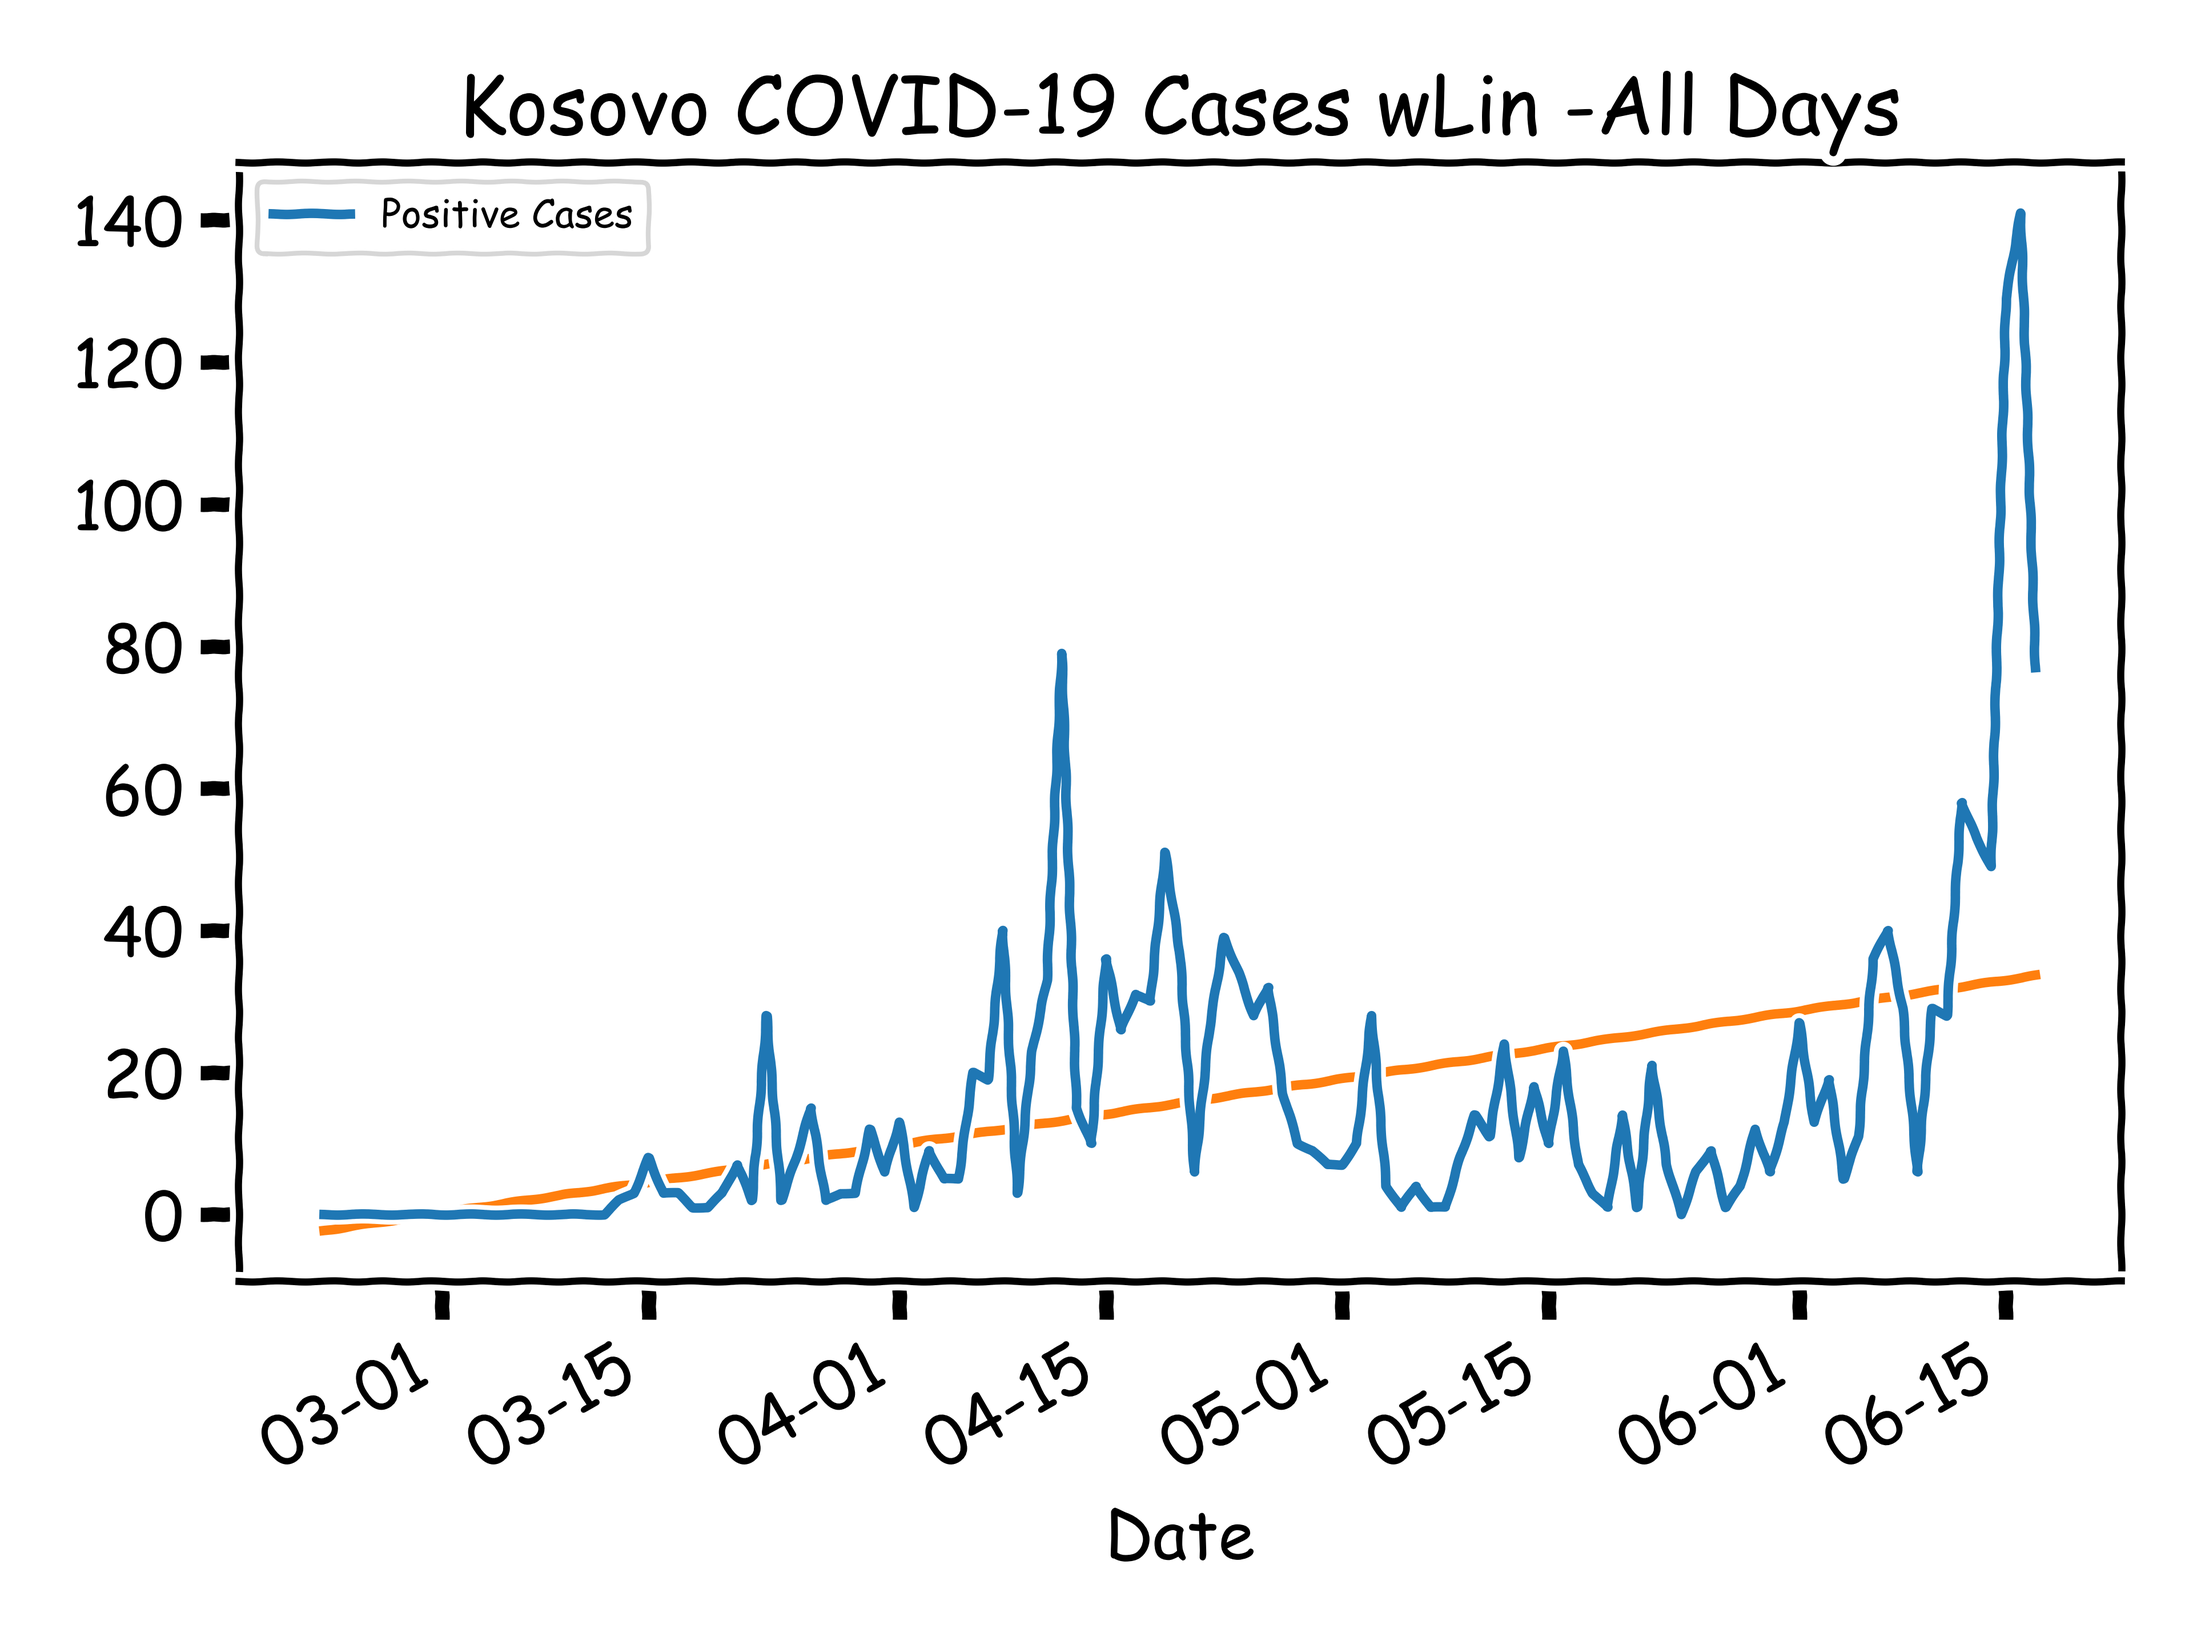
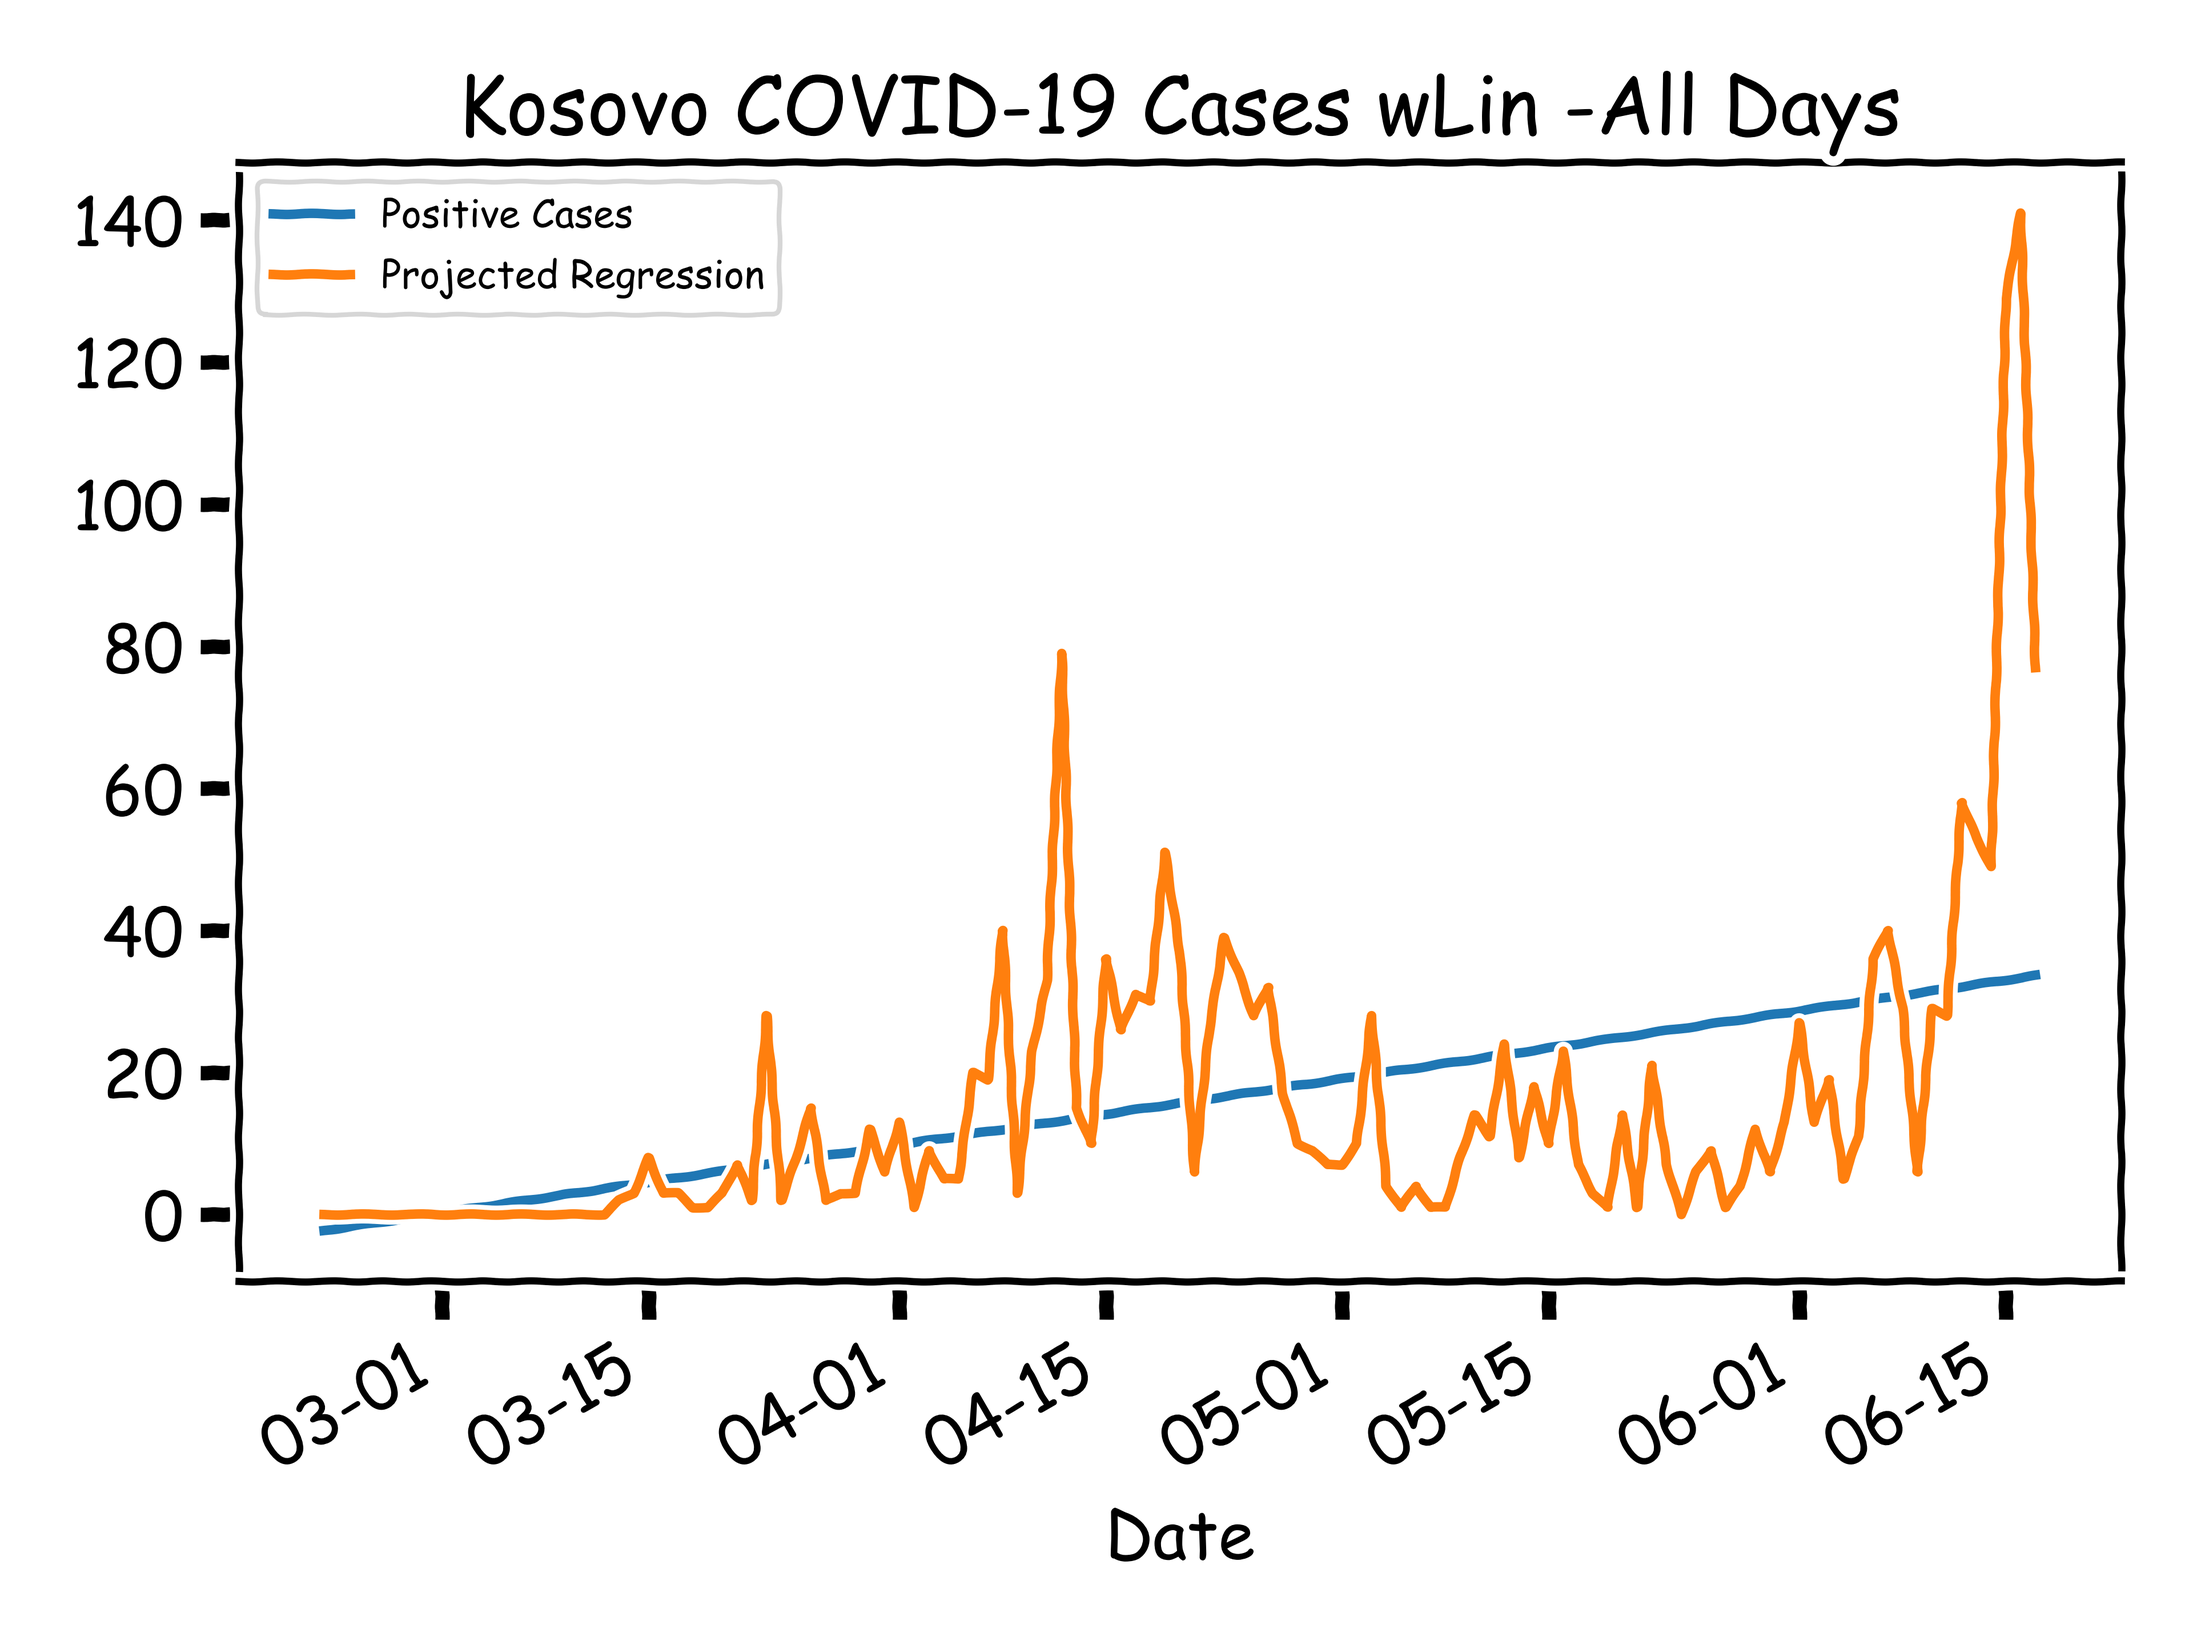
Daily push for 20200619

Changed region(s): [[0.125, 0.125, 0.9375, 0.75], [0.125, 0.125, 0.3438, 0.1875]]

diff --git a/LinTest.py b/LinTest.py
@@ -9,19 +9,26 @@ tickFormatter = mdates.DateFormatter('%m-%d')
 COVID_Raw = pandas.read_csv("./Data/COVID_Raw.csv")
 COVID_Raw['Date'] = pandas.to_datetime(COVID_Raw['Date'])
 COVID_Raw = COVID_Raw.set_index('Date')
+COVID_Raw[['Tested_Cum']] = COVID_Raw[['Tested_Raw']].cumsum()
+COVID_Raw[['Positive_Cum']] = COVID_Raw[['Positive_Raw']].cumsum()
+COVID_Raw[['Recovered_Cum']] = COVID_Raw[['Recovered_Raw']].cumsum()
+COVID_Raw[['Died_Cum']] = COVID_Raw[['Died_Raw']].cumsum()
+COVID_Raw['Active_Infections'] = (COVID_Raw['Positive_Cum'] - (COVID_Raw['Recovered_Cum'] + COVID_Raw['Died_Cum']))
 
-Y = COVID_Raw.Positive_Raw.values.reshape(-1, 1)
-X = COVID_Raw.index.map(datetime.datetime.toordinal).values.reshape(-1, 1)
-linear_regressor = LinearRegression()  # create object for the class
-linear_regressor.fit(X, Y)  # perform linear regression
-Y_pred = linear_regressor.predict(X)  # make predictions
+with plt.xkcd():
 
-CPDelta_df = COVID_Raw[['Positive_Raw']]
-CPDelta_df['LinReg'] = Y_pred
-deltaFig = CPDelta_df.plot(title='Kosovo COVID-19 Cases wLin -All Days', label='Positive Cases', zorder=10)
-deltaFig.xaxis.set_major_formatter(tickFormatter)
-deltaFig.legend(fontsize='xx-small')
-deltaFig.figure.tight_layout()
-# plt.plot(X, Y_pred, label='Projected Regression')
+    deltaFig = COVID_Raw.Active_Infections.plot(title='Kosovo COVID-19 Active Infections wLin -All Days', label='Positive Cases', zorder=10)
+    Y = COVID_Raw.Active_Infections.values.reshape(-1, 1)
+    X = COVID_Raw.index.map(datetime.datetime.toordinal).values.reshape(-1, 1)
+    linear_regressor = LinearRegression()  # create object for the class
+    linear_regressor.fit(X, Y)  # perform linear regression
+    Y_pred = linear_regressor.predict(X)  # make predictions
+    CPDelta_df = COVID_Raw[['Active_Infections']]
+    CPDelta_df.insert(0, 'LinReg', Y_pred, True)
+    CPDelta_df.insert(0, 'Mean_Active', COVID_Raw['Active_Infections'].mean(), True)
+    deltaFig = CPDelta_df.plot(title='Kosovo COVID-19 Active Infections -All Days', zorder=10)
+    deltaFig.xaxis.set_major_formatter(tickFormatter)
+    deltaFig.legend(['Mean Active Infections', 'Projected Regression', 'Active Infections'], fontsize='small')
+    deltaFig.figure.tight_layout()
 
-plt.show()
+    plt.savefig('../../../Desktop/Kosovo COVID-19 Active wLinRegandMean -All Days Plot.png', dpi=600)

diff --git a/covid.py b/covid.py
@@ -73,11 +73,28 @@ with plt.xkcd():
     linear_regressor = LinearRegression()  # create object for the class
     linear_regressor.fit(X, Y)  # perform linear regression
     Y_pred = linear_regressor.predict(X)  # make predictions
+    CPDelta_df = COVID_Raw[['Positive_Raw']]
+    CPDelta_df.insert(0, 'LinReg', Y_pred, True)
+    deltaFig = CPDelta_df.plot(title='Kosovo COVID-19 Cases wLin -All Days', zorder=10)
     deltaFig.xaxis.set_major_formatter(tickFormatter)
-    deltaFig.legend(fontsize='xx-small')
+    deltaFig.legend(['Positive Cases', 'Projected Regression'], fontsize='xx-small')
     deltaFig.figure.tight_layout()
-    plt.plot(X, Y_pred, label='Projected Regression')
     plt.savefig('Kosovo COVID-19 Raw wLinReg -All Days Plot.png', dpi=600)
+
+    deltaFig = COVID_Raw.Active_Infections.plot(title='Kosovo COVID-19 Active Infections wLin -All Days', label='Positive Cases', zorder=10)
+    Y = COVID_Raw.Active_Infections.values.reshape(-1, 1)
+    X = COVID_Raw.index.map(datetime.datetime.toordinal).values.reshape(-1, 1)
+    linear_regressor = LinearRegression()  # create object for the class
+    linear_regressor.fit(X, Y)  # perform linear regression
+    Y_pred = linear_regressor.predict(X)  # make predictions
+    CPDelta_df = COVID_Raw[['Active_Infections']]
+    CPDelta_df.insert(0, 'LinReg', Y_pred, True)
+    CPDelta_df.insert(0, 'Mean_Active', COVID_Raw['Active_Infections'].mean(), True)
+    deltaFig = CPDelta_df.plot(title='Kosovo COVID-19 Active Infections -All Days', zorder=10)
+    deltaFig.xaxis.set_major_formatter(tickFormatter)
+    deltaFig.legend(['Mean Active Infections', 'Projected Regression', 'Active Infections'], fontsize='small')
+    deltaFig.figure.tight_layout()
+    plt.savefig('Kosovo COVID-19 Raw wLinRegandMean -All Days Plot.png', dpi=600)
 
     CPDelta_df = COVID_Raw[['Positive_Raw']]
     deltaFig = CPDelta_df.plot(title='Kosovo COVID-19 Cases -All Days')
